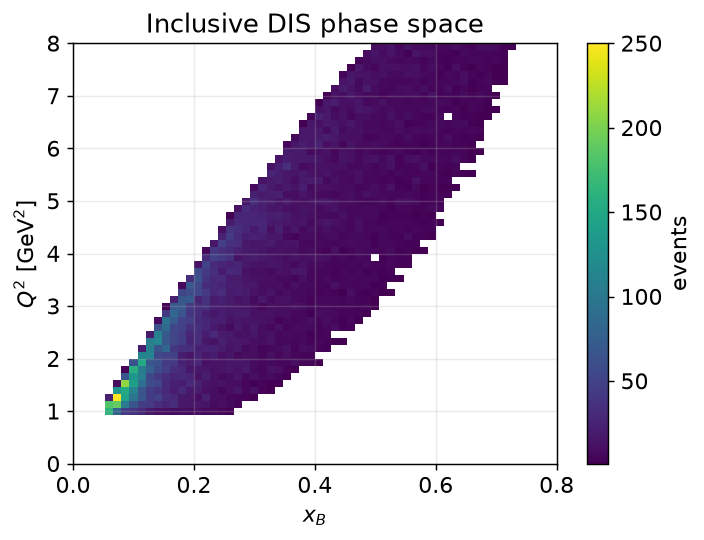
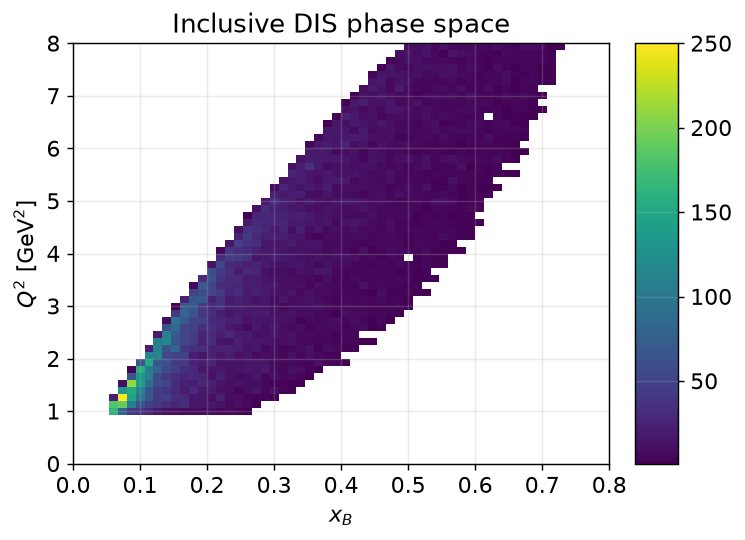
docs: plot with mplhep (no HEP theme); fix relative links for PyPI
Plotting
- Tutorial figures and snippets now use mplhep's histogram helpers —
  hep.histplot for 1D, hep.hist2dplot for 2D — instead of raw plt.hist/hist2d.
- Deliberately NO hep.style.use(...): importing mplhep changes zero rcParams
  (verified), so the figures keep plain matplotlib styling rather than a
  CMS/ATLAS look. The setup section says so explicitly.
- 2D plots now blank empty bins (NaN) instead of painting them the colormap's
  darkest colour, which reads better on a light docs page.

PyPI links
- py/README.md is the PyPI long description, and PyPI resolves relative links
  against https://pypi.org/project/oxihipo/ — so every [x](examples/...) link
  404'd (e.g. .../project/oxihipo/examples/). Rewrote all 14 to absolute
  github.com URLs.
- Added the tutorial at the top of the page: a Tutorial badge plus a callout
  under the badges, so it's the first thing a PyPI visitor sees.

Verified: twine check passes; the packaged PKG-INFO carries the tutorial link
and no relative links remain; docs build clean.

diff --git a/py/README.md b/py/README.md
@@ -2,6 +2,12 @@
 
 [![PyPI](https://img.shields.io/pypi/v/oxihipo)](https://pypi.org/project/oxihipo/)
 [![Documentation](https://img.shields.io/badge/📖_docs-mathieuouillon.github.io%2Foxihipo-b5410b)](https://mathieuouillon.github.io/oxihipo/docs/python/reading)
+[![Tutorial](https://img.shields.io/badge/🎓_tutorial-CLAS12_analysis_in_Python-0d7a6f)](https://mathieuouillon.github.io/oxihipo/docs/tutorial)
+
+> **New to CLAS12?** Start with the
+> **[CLAS12 analysis tutorial](https://mathieuouillon.github.io/oxihipo/docs/tutorial)** —
+> eight pages from your first `open()` to DIS kinematics, `pindex` detector joins,
+> and invariant/missing-mass spectra, with runnable code and sample data.
 
 Fast, **columnar** reading *and writing* of HIPO (CLAS12) files, powered by the
 Rust `oxihipo` core. A HIPO bank reads like a
@@ -22,26 +28,22 @@ p.px                                        # jagged: p[event].px indexes partic
 ak.sum(p.px, axis=1)                         # per-event reductions, no Python loop
 ```
 
-Runnable scripts live in [`examples/`](examples/) — every one works against the
+Runnable scripts live in [`examples/`](https://github.com/mathieuouillon/oxihipo/tree/main/py/examples) — every one works against the
 bundled sample with no arguments:
 
 | | |
 |---|---|
-| [`quickstart.py`](examples/quickstart.py) | open a file, inspect it, read columns |
-| [`analysis.py`](examples/analysis.py) | a columnar analysis with Awkward (cuts, reductions) |
-| [`streaming.py`](examples/streaming.py) | `iterate` a chain bigger than RAM |
-| [`parallel.py`](examples/parallel.py) | `workers=N` multi-process reading |
-| [`writing.py`](examples/writing.py) | write a file: jagged, `T#N` array, and scalar columns |
-| [`decorate.py`](examples/decorate.py) | attach a derived bank to a cooked file |
-| [`event_tags.py`](examples/event_tags.py) | tags: filter by name, tag-and-skim, retag in place |
-| [`interop.py`](examples/interop.py) | NumPy / pandas / Arrow → polars, duckdb |
-| [`rdataframe.py`](examples/rdataframe.py) | feed ROOT's RDataFrame |
-| [`tutorial_sample.py`](examples/tutorial_sample.py) | generate the CLAS12-shaped sample for the [tutorial](https://mathieuouillon.github.io/oxihipo/docs/tutorial) |
+| [`quickstart.py`](https://github.com/mathieuouillon/oxihipo/blob/main/py/examples/quickstart.py) | open a file, inspect it, read columns |
+| [`analysis.py`](https://github.com/mathieuouillon/oxihipo/blob/main/py/examples/analysis.py) | a columnar analysis with Awkward (cuts, reductions) |
+| [`streaming.py`](https://github.com/mathieuouillon/oxihipo/blob/main/py/examples/streaming.py) | `iterate` a chain bigger than RAM |
+| [`parallel.py`](https://github.com/mathieuouillon/oxihipo/blob/main/py/examples/parallel.py) | `workers=N` multi-process reading |
+| [`writing.py`](https://github.com/mathieuouillon/oxihipo/blob/main/py/examples/writing.py) | write a file: jagged, `T#N` array, and scalar columns |
+| [`decorate.py`](https://github.com/mathieuouillon/oxihipo/blob/main/py/examples/decorate.py) | attach a derived bank to a cooked file |
+| [`event_tags.py`](https://github.com/mathieuouillon/oxihipo/blob/main/py/examples/event_tags.py) | tags: filter by name, tag-and-skim, retag in place |
+| [`interop.py`](https://github.com/mathieuouillon/oxihipo/blob/main/py/examples/interop.py) | NumPy / pandas / Arrow → polars, duckdb |
+| [`rdataframe.py`](https://github.com/mathieuouillon/oxihipo/blob/main/py/examples/rdataframe.py) | feed ROOT's RDataFrame |
+| [`tutorial_sample.py`](https://github.com/mathieuouillon/oxihipo/blob/main/py/examples/tutorial_sample.py) | generate the CLAS12-shaped sample for the [tutorial](https://mathieuouillon.github.io/oxihipo/docs/tutorial) |
 | `bench_*.py` | read, compression, and RDataFrame benchmarks |
-
-New to CLAS12? The [**Python tutorial**](https://mathieuouillon.github.io/oxihipo/docs/tutorial)
-builds from a first `open()` to a full multi-particle analysis (DIS kinematics,
-`pindex` joins, invariant/missing mass) on data `tutorial_sample.py` generates.
 
 ## Reading
 
@@ -119,7 +121,7 @@ for chunk in ox.iterate("/volatile/run5042/*.hipo", "REC::Particle", step_size="
 > **Required:** any script that passes `workers=` must be guarded by
 > `if __name__ == "__main__":`. Workers are spawned (not forked — forking after
 > Rust's thread pool exists is unsafe), so each re-imports your script; without
-> the guard it would re-run at import. See [`examples/parallel.py`](examples/parallel.py).
+> the guard it would re-run at import. See [`examples/parallel.py`](https://github.com/mathieuouillon/oxihipo/blob/main/py/examples/parallel.py).
 
 ## Filtering and skimming
 
@@ -202,14 +204,14 @@ for chunk in ox.iterate_rdataframe("run5042.hipo", "REC::Particle", ["px"], step
 Needs a working ROOT/PyROOT (not on PyPI — conda-forge or system) plus
 `awkward`; `pip install oxihipo[root]` covers the awkward side. `filter_name`,
 `entry_start`/`entry_stop`, and `.filtered(...)` all carry through. See
-[`examples/rdataframe.py`](examples/rdataframe.py) and the
+[`examples/rdataframe.py`](https://github.com/mathieuouillon/oxihipo/blob/main/py/examples/rdataframe.py) and the
 [RDataFrame guide](https://mathieuouillon.github.io/oxihipo/docs/python/rdataframe).
 
 The bridge is a **no-copy view** — `rdataframe` costs ~1 ms over the bare
 `arrays` read. But the RDF loop is single-threaded here (implicit MT doesn't work
 with the Awkward-generated source), so on a simple kernel it runs slower than the
 vectorized Awkward equivalent: use it to reuse RDF/C++ code, not for speed. Numbers
-+ reproduction: [`examples/bench_rdataframe.py`](examples/bench_rdataframe.py) and
++ reproduction: [`examples/bench_rdataframe.py`](https://github.com/mathieuouillon/oxihipo/blob/main/py/examples/bench_rdataframe.py) and
 the [RDataFrame guide's Performance section](https://mathieuouillon.github.io/oxihipo/docs/python/rdataframe#performance).
 
 ## Discovery
@@ -242,7 +244,7 @@ a 9.1 GB CLAS12 file (598k events, Apple M4 Pro, all cores),
 `f.arrays("REC::Particle", ["px","py","pz","pid"])` reads at ~5.6 GB/s vs Rust's
 6.3 GB/s. Details + reproduction:
 [Python vs Rust benchmark](https://mathieuouillon.github.io/oxihipo/docs/design/python-vs-rust-benchmark)
-and [`examples/bench_columns.py`](examples/bench_columns.py).
+and [`examples/bench_columns.py`](https://github.com/mathieuouillon/oxihipo/blob/main/py/examples/bench_columns.py).
 
 ## Install
 

diff --git a/website/docs/tutorial/inclusive-dis.md b/website/docs/tutorial/inclusive-dis.md
@@ -74,11 +74,15 @@ cross-section make electrons unreliable — a standard CLAS12 choice.
 
 ```python
 import matplotlib.pyplot as plt
+import mplhep as hep          # histogram helpers — we never call hep.style.use()
+
+# bin first, then draw: hep.hist2dplot takes counts + edges
+H, xe, ye = np.histogram2d(ak.to_numpy(xB), ak.to_numpy(Q2),
+                           bins=(60, 60), range=((0, 0.8), (0, 8)))
+H = np.where(H == 0, np.nan, H)          # leave empty bins blank
 
 fig, ax = plt.subplots()
-h = ax.hist2d(ak.to_numpy(xB), ak.to_numpy(Q2),
-              bins=60, range=((0, 0.8), (0, 8)), cmin=1)
-fig.colorbar(h[3], label="events")
+hep.hist2dplot(H, xe, ye, ax=ax, cmap="viridis")     # colorbar included
 ax.set(xlabel="$x_B$", ylabel="$Q^2$ [GeV$^2$]")
 ```
 
@@ -91,7 +95,8 @@ $Q^2$ runs from 1 to ~11 GeV² (mean ≈ 3.8) and:
 
 ```python
 W = ...                       # as above, before the W cut
-plt.hist(ak.to_numpy(W), bins=70, range=(2, 4.5))
+counts, edges = np.histogram(ak.to_numpy(W), bins=70, range=(2, 4.5))
+hep.histplot(counts, edges, histtype="fill", alpha=0.85)
 ```
 
 ![W spectrum](/img/tutorial/dis_w.png)

diff --git a/website/docs/tutorial/index.md b/website/docs/tutorial/index.md
@@ -55,9 +55,15 @@ real DSTs for physics. Every page flags what changes on real data.
 ## Setup
 
 ```bash
-pip install "oxihipo[all]"      # oxihipo + awkward + pandas + pyarrow
-pip install matplotlib          # for the plots in this tutorial
+pip install "oxihipo[all]"        # oxihipo + awkward + pandas + pyarrow
+pip install matplotlib mplhep     # plotting (mplhep = HEP histogram helpers)
 ```
+
+We plot with [**mplhep**](https://mplhep.readthedocs.io)'s `histplot` /
+`hist2dplot`, which draw pre-binned histograms the way HEP expects (bin edges in,
+step/filled bins out) instead of matplotlib's raw-data `plt.hist`. We deliberately
+**don't** call `hep.style.use(...)` — that would impose a CMS/ATLAS look; importing
+mplhep alone changes no matplotlib settings, so the figures keep plain styling.
 
 We use [Awkward Array](https://awkward-array.org) throughout — it's how oxihipo
 returns jagged, variable-length-per-event data. If you've used NumPy, the mental

diff --git a/website/docs/tutorial/exclusive-channels.md b/website/docs/tutorial/exclusive-channels.md
@@ -35,7 +35,10 @@ m_gg = ak.flatten(inv_mass_2(g1, g2))      # all pair masses, flattened
 ```
 
 ```python
-plt.hist(ak.to_numpy(m_gg), bins=80, range=(0.05, 0.35))
+import mplhep as hep
+
+counts, edges = np.histogram(ak.to_numpy(m_gg), bins=80, range=(0.05, 0.35))
+hep.histplot(counts, edges, histtype="fill", alpha=0.85)
 ```
 
 ![γγ invariant mass, showing the π0 peak](/img/tutorial/pi0_mass.png)
@@ -112,7 +115,8 @@ MX = np.sqrt(np.maximum(0, miss_E**2 - miss_px**2 - miss_py**2 - miss_pz**2))
 ```
 
 ```python
-plt.hist(ak.to_numpy(MX[~ak.is_none(MX)]), bins=80, range=(0.5, 2.0))
+counts, edges = np.histogram(ak.to_numpy(MX[~ak.is_none(MX)]), bins=80, range=(0.5, 2.0))
+hep.histplot(counts, edges, histtype="fill", alpha=0.85)
 ```
 
 ![Missing mass of e' π+, with a neutron peak](/img/tutorial/missing_mass.png)